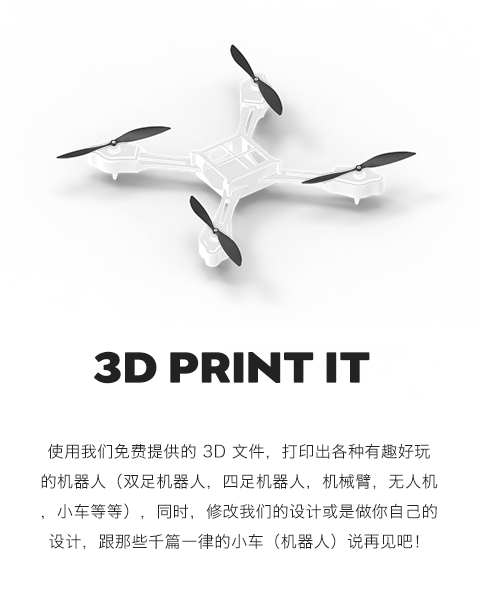
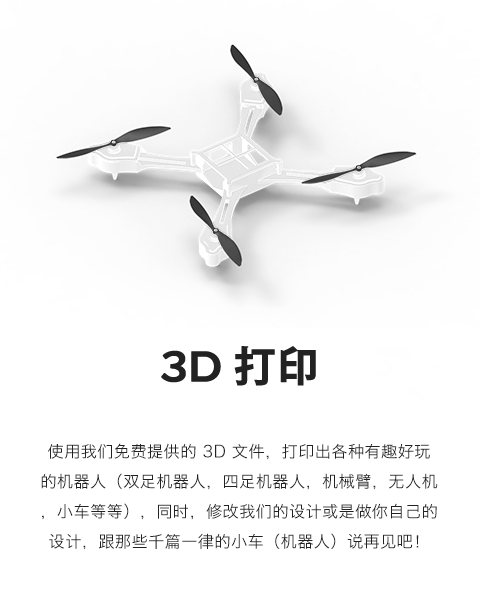
more

Changed region(s): [[0.1875, 0.57, 0.7812, 0.66]]

diff --git a/index.html b/index.html
@@ -437,7 +437,23 @@
                     </div>
             </div> -->
 
-            <div style="padding-top:30px;padding-bottom:50px;background-color:#fff;" class="container-fluid full-width">
+            <style>
+            .module_formula {font-weight:500;padding:5px 15px;border-radius:4px;border:1px #1e90ff solid;color:#fff;font-size:16px;margin-right:10px;background-color:#1e90ff;font-family:'Poppins','PingFang SC','Hiragino Sans GB','Microsoft YaHei',Arial,sans-serif;}
+            </style>
+
+            <div style="padding-top:80px;padding-bottom:70px;background-color:#fff;">
+            <div class="title">
+                <h2 style="20px;line-height:1.5em;font-family:'Poppins','PingFang SC','Hiragino Sans GB','Microsoft YaHei',Arial,sans-serif;" class="flex">打造属于你自己的机器人！</h2>
+                <div style="padding-top:0px;" class="description flex  ">
+                    <p>
+                        <b class="module_formula">3D 打印</b>+&nbsp;
+                        <b class="module_formula">模块拼装</b>+&nbsp;
+                        <b class="module_formula">编程控制</b>+&nbsp;
+                        <b class="module_formula">App 互动</b>
+                    </p>
+                </div>
+            </div>
+            <div style="padding-top:20px;" class="container-fluid full-width">
             <div id="coco3dp" class="row row-no-gutter">
                <div style="padding-top:20px;" class="col-xs-12 col-sm-3">
                     <img src="assets/images/hiw_1.png" class="img-full-width" alt="" /> 
@@ -451,6 +467,7 @@
                <div style="padding-top:20px;" class="col-xs-12 col-sm-3">
                     <img src="assets/images/hiw_4.png" class="img-full-width" alt="" /> 
                </div>
+            </div>
             </div>
             </div>
 
